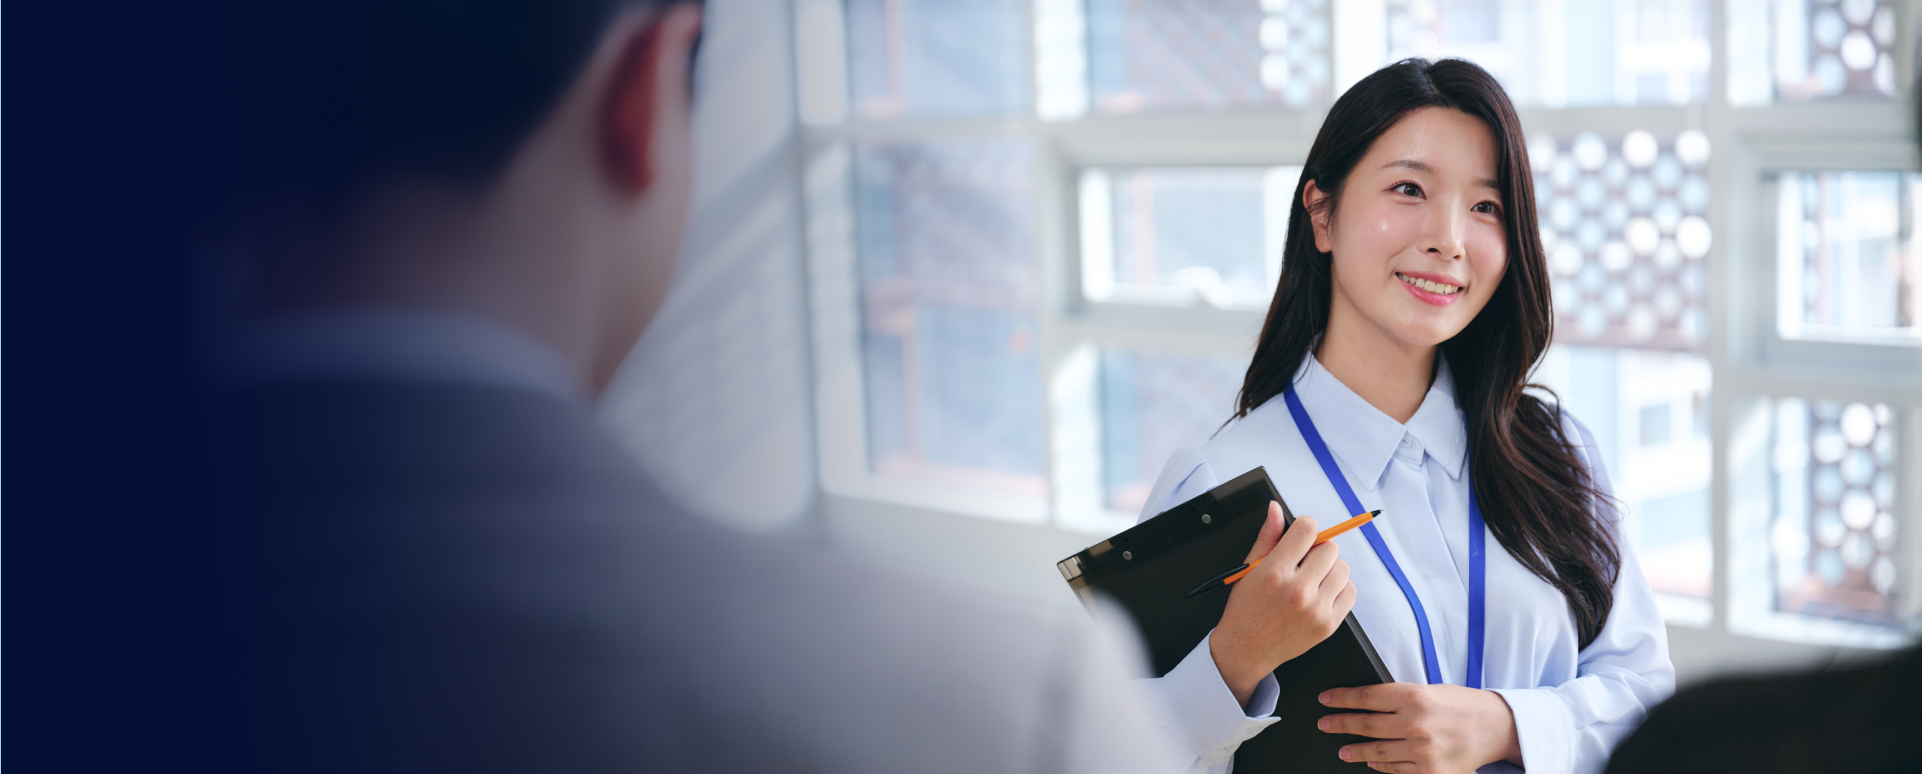
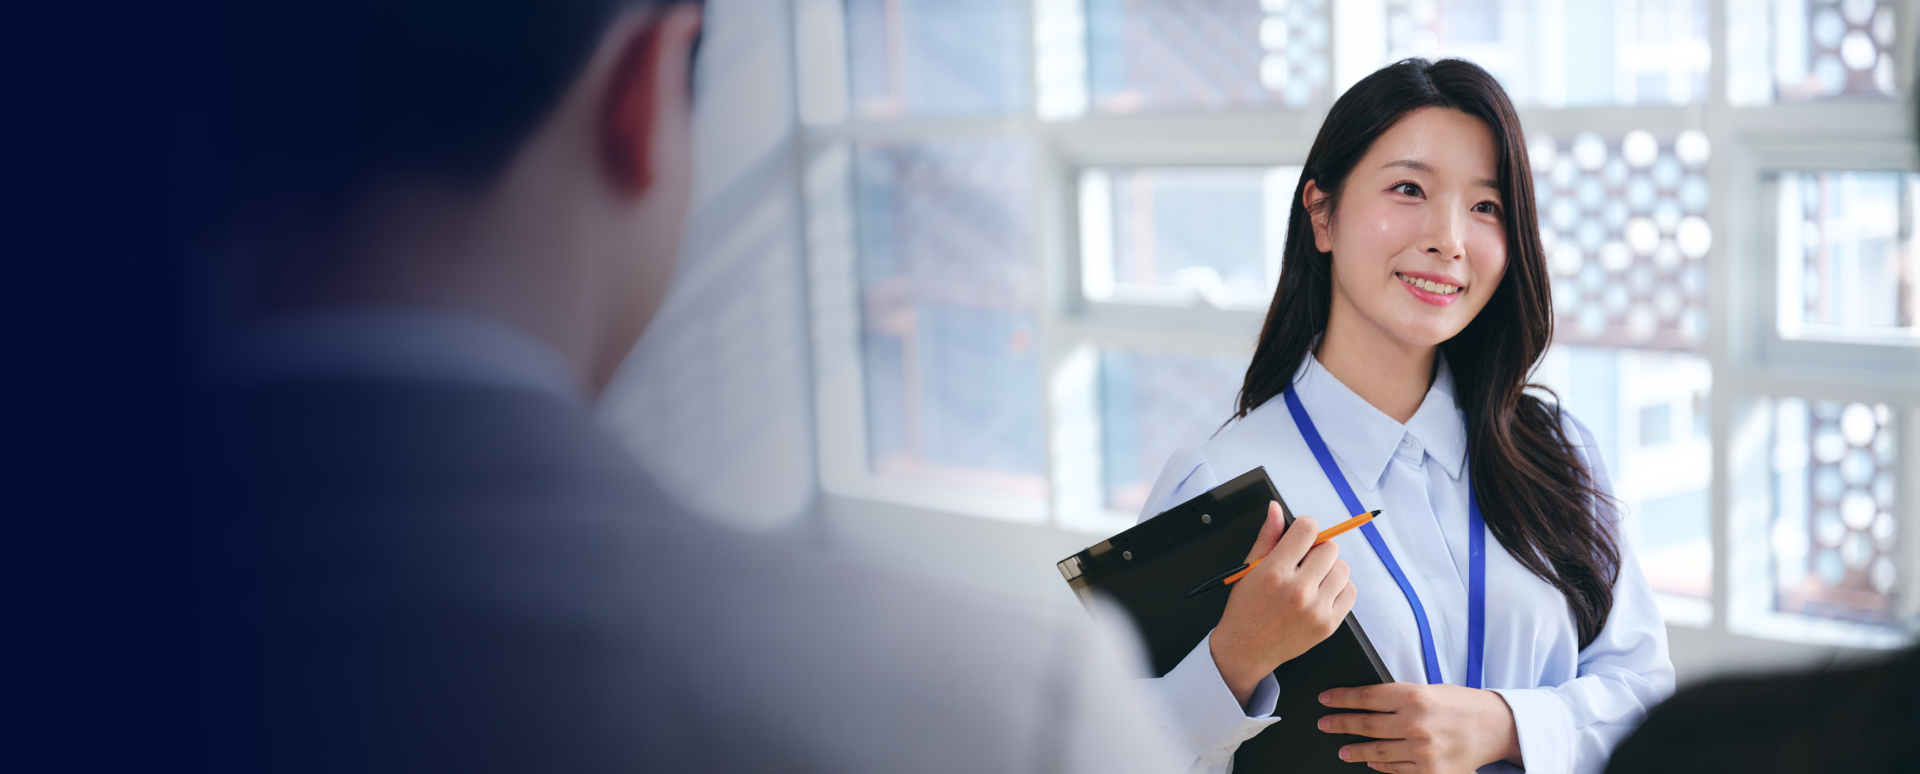
update img

diff --git a/src/components/addbranch/AddBranchPageClient.tsx b/src/components/addbranch/AddBranchPageClient.tsx
@@ -4,7 +4,6 @@ import Image from "next/image";
 import "@/app/main.css";
 import { motion, Easing } from "framer-motion";
 import Link from "next/link";
-import { useEffect, useState } from "react";
 
 export default function AddBranchPageClient() {
   const textVariants = {
@@ -19,46 +18,17 @@ export default function AddBranchPageClient() {
     },
   };
 
-  function ArrowBlink() {
-    const [active, setActive] = useState(true);
-    useEffect(() => {
-      const interval = setInterval(() => {
-        setActive((prev) => !prev);
-      }, 2000);
-      return () => clearInterval(interval);
-    }, []);
-    return (
-      <span className="absolute top-full mt-4 left-1/2 -translate-x-1/2 w-[22px] h-[30px]">
-        <Image
-          src="/images/main/arrow_action.png"
-          width={22}
-          height={11}
-          alt="활성 화살표"
-          className={`absolute top-0 left-0 transition-all ease-in-out duration-[2000ms] ${
-            active ? "opacity-100 translate-y-0" : "opacity-0 -translate-y-2.5"
-          }`}
-        />
-        <Image
-          src="/images/main/arrow_beaction.png"
-          width={22}
-          height={11}
-          alt="비활성 화살표"
-          className={`absolute top-0 left-0 transition-all ease-in-out duration-[2000ms] ${
-            !active ? "opacity-100 translate-y-0" : "opacity-0 -translate-y-2.5"
-          }`}
-        />
-      </span>
-    );
-  }
 
   return (
-    <main className="main w-screen min-h-screen flex flex-col items-center bg-white">
+    <main className="main w-full min-h-screen flex flex-col items-center bg-white overflow-x-hidden">
       {/* Desktop Hero Section */}
       <section
-        className="main__hero hidden md:flex absolute inset-0 w-full h-full items-center justify-center relative"
+        className="main__hero hidden md:flex w-full h-full items-center justify-center relative"
         style={{
-          width: "100vw",
+          width: "100%",
           height: "75vh",
+          left: 0,
+          right: 0,
           backgroundImage: "url('/images/addbranch/addbranch_main.png')",
           backgroundSize: "cover",
           backgroundPosition: "center",
@@ -93,10 +63,12 @@ export default function AddBranchPageClient() {
       </section>
       {/* Mobile Hero Section */}
       <section
-        className="main__hero flex md:hidden absolute inset-0 w-full h-full items-center justify-center relative"
+        className="main__hero flex md:hidden w-full h-full items-center justify-center relative"
         style={{
-          width: "100vw",
+          width: "100%",
           height: "75vh",
+          left: 0,
+          right: 0,
           backgroundImage: "url('/images/addbranch/addbranch_main.png')",
           backgroundSize: "cover",
           backgroundPosition: "center",

diff --git a/src/app/layout.tsx b/src/app/layout.tsx
@@ -85,10 +85,10 @@ export default function RootLayout({
   children: React.ReactNode;
 }>) {
   return (
-    <html lang="ko">
+    <html lang="ko" className="overflow-x-hidden">
       <body
         className={cn(
-          "min-h-screen bg-background font-sans antialiased",
+          "min-h-screen bg-background font-sans antialiased overflow-x-hidden",
           geistSans.variable,
           geistMono.variable
         )}
